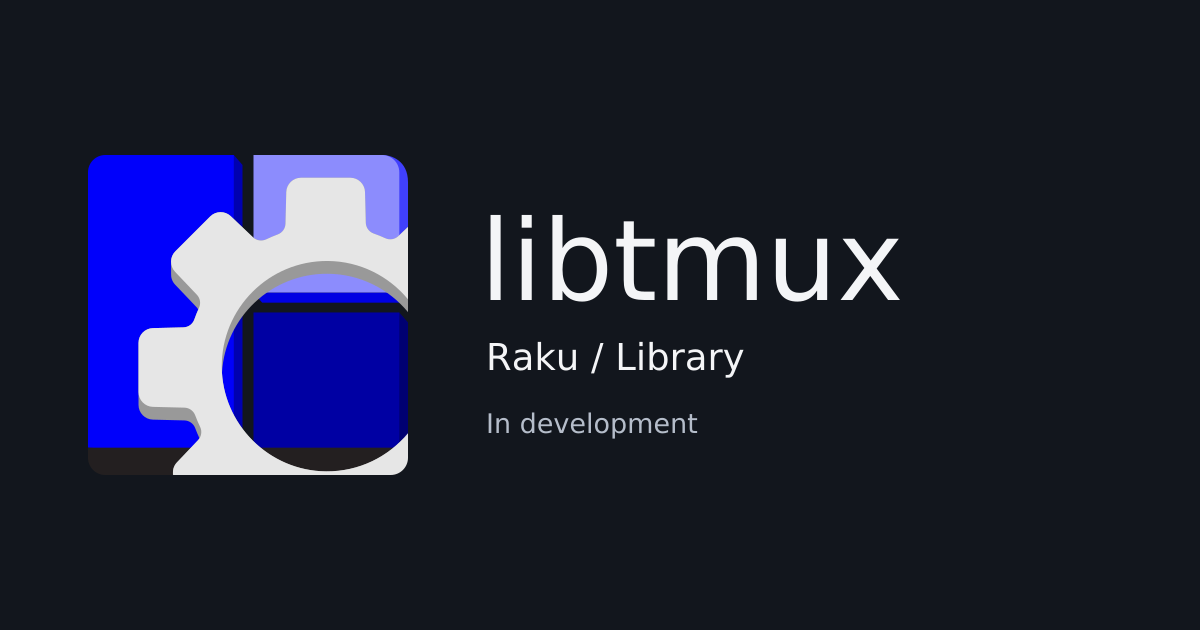
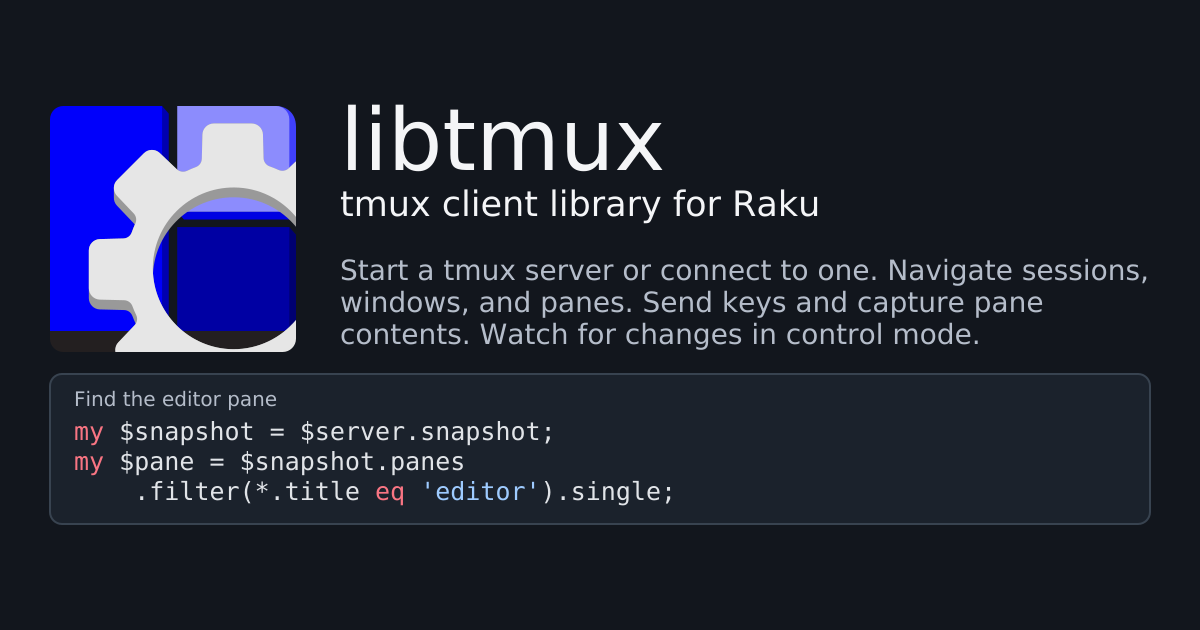
docs(fix[branding]) Show a native pane query
why: Sharing previews should demonstrate the implemented library API.
what:
- Refresh Open Graph cards and pin their upstream source
- Use ordinary tmux names in the displayed example

Changed region(s): [[0.0308, 0.1508, 0.9558, 0.8444]]

diff --git a/docs/assets/README.md b/docs/assets/README.md
@@ -1,14 +1,20 @@
 # Logo assets
 
 The SVG and PNG use the libtmux library tile-and-cog geometry with Raku blue
-`#0000fb`. The two social images provide light and dark backgrounds.
+`#0000fb`. The two social images provide light and dark backgrounds and show a native
+query selecting the pane titled `editor`.
 
 Exports and renderer: [libtmux/assets, pinned Raku revision][assets]
 ([artwork PR](https://github.com/libtmux/assets/pull/7)). Palette source:
-[GitHub Linguist, pinned revision][linguist]. Social images use DejaVu Sans.
+[GitHub Linguist, pinned revision][linguist]. The social cards use the asset kit's outlined fonts.
+
+The social cards come from [the verified query update][cards]. Their exact
+query was exercised on a private tmux server with matching and missing panes.
 
 Use the pinned upstream artwork renderer when regenerating exports. The SVG
 is the editable library asset.
 
 [assets]: https://github.com/libtmux/assets/tree/707c0611c4b949fe254a7fbe13f70d8e074a512a/assets/raku/library
 [linguist]: https://github.com/github-linguist/linguist/blob/d456527fe93355baa28c3c29d542c97282b61bc7/lib/linguist/languages.yml
+
+[cards]: https://github.com/libtmux/assets/tree/a6377dd4fbfe0d5e59271ceefb21cb503646dbc0/assets/raku/library
